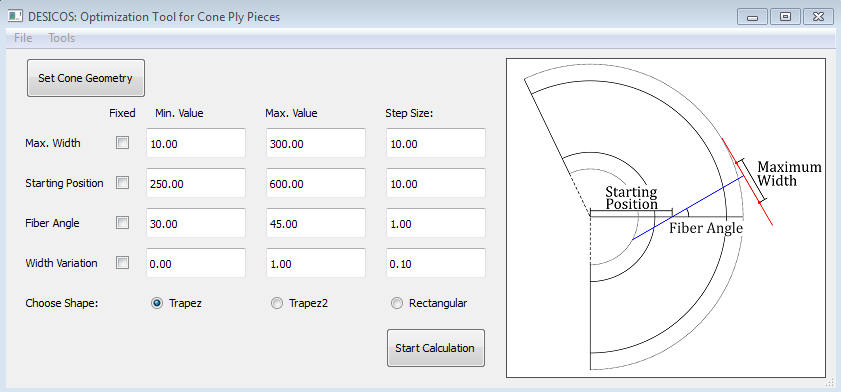
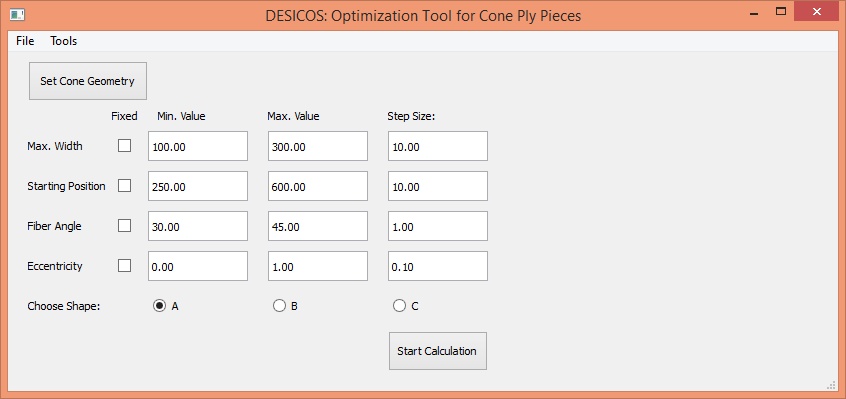
DOC: Update documentation for CPPOT-GUI.

diff --git a/doc/source/tutorials/cppot/gui/index.rst b/doc/source/tutorials/cppot/gui/index.rst
@@ -14,10 +14,9 @@ accessible through the Menu Bar Item ‘Tools’.
 
 Installation Requirements
 -------------------------
-To use this tool one needs Python (x,y) (full installation) and the
-Add-on `Shapely <http://toblerity.org/shapely/index.html>`_.
-All can be downloaded at http://code.google.com/p/pythonxy/ .
-
+To use this tool one needs Python 2.x, numpy and matplotlib, like for the
+Abaqus-plugin. Additionally, PyQt4 (https://wiki.python.org/moin/PyQt4) is
+needed.
 
 Input Tool
 ----------
@@ -153,24 +152,19 @@ This tool changes the geometry of the studied cone. This tool can be entered
 by clicking the ‘Set Cone Geometry’-Button or the ‘Cone Geometry Tool’- Item
 in the Menu ‘Tools’ in the menu bar.
 
-When started, the window in Figure 7 will be opened. On the left side are five
+When started, the window in Figure 7 will be opened. On the left side are four
 changeable lines and some further information about the cone geometry. It is
-possible to change the the half-cone angle and the radii of the different cone
-parts. The parts between `r1` and `r2` and between `r3` and `r4` are auxiliary
+possible to change the the half-cone angle and the dimensions of the cone. The
+parts between `r1` and `r2` and between `r3` and `r4` are auxiliary
 parts used for cutting and molding the edges of the cone. Between `r2` and
-`r3` is the so called free cone area.
+`r3` (each with height `H`) is the so called *free cone area*.
 
 The algorithm of the ply piece design will try to cover the whole cone, but
 the investigation and evaluation of the fiber angle deviation will be only
 applied to the free cone.
 
 On the right side of the window is a dynamic drawing, which will change with
-the entered values. There is also the definition of the cone coordinate system
-at the vertex.
-
-On the right side of the Input lines are the maximum length and width of the
-free cone and the length of both support areas. The length is measured in the
-z-direction.
+the entered values. There is also the definition of the coordinate system.
 
 .. figure:: ../../../../figures/modules/cppot/gui/fig_07.png
     :width: 700
@@ -194,7 +188,7 @@ The loading application is used when the tool is opened directly from the
 Input-Tool window. Only files created by the save-function can be loaded into
 the program and not the export files.
 
-To draw a graphic one has to choose witch results should be shown. It is
+To draw a graphic one has to choose which results should be shown. It is
 possible to show all evaluation parameters in one drawing. In the next step
 one has to decide if the drawing should be a 2D or 3D Graphic. In a 2D-Graphic
 is for every design parameter an own drawing made. At each Step are the
@@ -291,7 +285,7 @@ explanations’-box is set, the drawing contains further information about the
 input parameters.
 
 .. figure:: ../../../../figures/modules/cppot/gui/fig_13.png
-    :width: 350
+    :width: 250
 
     Figure 13: Plot Ply Piece Tool
 
@@ -315,47 +309,48 @@ bar.
 
     Figure 14: Example of ply piece plot
 
-Cutting Design - Tool
-.....................
-This tool calculates the ideal cutting design for two given boundaries of the
-cone. This is necessary for tools with a finite length. As one can see in
-Figure 14, the ply pieces are larger than the outer boundaries of the cone
-(shown as blue dotted lines). If these were the boundaries of the conical
-tooling, the manufacturing would be impossible or one would have to shorten
-the ply pieces.  The cutting design tool uses the original design with the
-same design parameters as the other tools and calculates the intersections of
-the ply piece with the edges of the cone, see Figure 15.
 
-.. figure:: ../../../../figures/modules/cppot/gui/fig_15.png
-    :width: 700
+..  Cutting Design - Tool
+    .....................
+    This tool calculates the ideal cutting design for two given boundaries of the
+    cone. This is necessary for tools with a finite length. As one can see in
+    Figure 14, the ply pieces are larger than the outer boundaries of the cone
+    (shown as blue dotted lines). If these were the boundaries of the conical
+    tooling, the manufacturing would be impossible or one would have to shorten
+    the ply pieces.  The cutting design tool uses the original design with the
+    same design parameters as the other tools and calculates the intersections of
+    the ply piece with the edges of the cone, see Figure 15.
 
-    Figure 15: Example of cutting design
+    .. figure:: ../../../../figures/modules/cppot/gui/fig_15.png
+        :width: 700
 
-The values of slower limit and supper limit are the s-coordinates of the used
-edges. The cutting design is not only useful to make the ply pieces smaller
-but also help to align the ply pieces properly. It is recommended to make
-circumferential markings of the different radii / limit values and align the
-ply pieces appropriately.
+        Figure 15: Example of cutting design
 
-The tool itself is shown in Figure 16. In the upper part of the GUI are the
-common controls for the design parameters and the cone geometry. In the last
-two rows are the controls for the upper and lower limits of s. By clicking the
-‘Calculate Cutting Shape’-Button two new windows are opened.
+    The values of slower limit and supper limit are the s-coordinates of the used
+    edges. The cutting design is not only useful to make the ply pieces smaller
+    but also help to align the ply pieces properly. It is recommended to make
+    circumferential markings of the different radii / limit values and align the
+    ply pieces appropriately.
 
-.. figure:: ../../../../figures/modules/cppot/gui/fig_16.png
-    :width: 350
+    The tool itself is shown in Figure 16. In the upper part of the GUI are the
+    common controls for the design parameters and the cone geometry. In the last
+    two rows are the controls for the upper and lower limits of s. By clicking the
+    ‘Calculate Cutting Shape’-Button two new windows are opened.
 
-    Figure 16: Cutting Design Tool
+    .. figure:: ../../../../figures/modules/cppot/gui/fig_16.png
+        :width: 350
 
-The opened windows show the cutting design as a drawing and the corresponding
-values of the four sides, see Figure 17. To simplify the transposing from this
-tool to any drawing software, the lengths are given relatively to the fiber
-orientation (x-axis).
+        Figure 16: Cutting Design Tool
 
-.. figure:: ../../../../figures/modules/cppot/gui/fig_17.png
-    :width: 700
+    The opened windows show the cutting design as a drawing and the corresponding
+    values of the four sides, see Figure 17. To simplify the transposing from this
+    tool to any drawing software, the lengths are given relatively to the fiber
+    orientation (x-axis).
 
-    Figure 17: Cutting Design Window
+    .. figure:: ../../../../figures/modules/cppot/gui/fig_17.png
+        :width: 700
+
+        Figure 17: Cutting Design Window
 
 Python Programming
 ------------------
@@ -369,9 +364,6 @@ To handle the design and cone geometry parameters a python class called
 ‘DataHandle’ and the ‘ResultHandle’ for the results of the study. Both can be
 fined in ``GUIHandle.py``.
 
-The DataHandle has 10 variables and set/get-methods for each of them. Except
-from the shape variable, all are arrays of integers or floats.
-
 GUI Programming
 ...............
 
@@ -383,7 +375,6 @@ the python files and the GUI-Tools:
 - Cone Geometry Tool: ``GUIConeGeo.py``
 - Evaluation Tool: ``GUIEval.py``
 - Plot Ply Piece Tool: ``GUIPlot.py``
-- Plot Ply Piece Tool: ``GUIDesign.py``
 
 Backbone Programming
 ....................
@@ -391,12 +382,6 @@ Backbone Programming
 In the following list are the Python files used to calculate the shapes and
 draw the graphs:
 
-- ``Bpart.py`` Collection of small functions to calculate coordinate
-  transformations, intersections and evaluation parameters
-- ``Bproto.py`` Contains the algorithms for the basic shapes: Trapez (Shape
-  A), Trapez2 (Shape B), Rect (Shape C). The functions only return the
-  vertices of the prototype shape., which will be later rotated around the
-  cone vertex.
 - ``GUICalc.py`` Contains the class used to make all variations of the study.
   Is called by Input-Tool, calls afterwards the evaluation tool and shows a
   progress bar.
